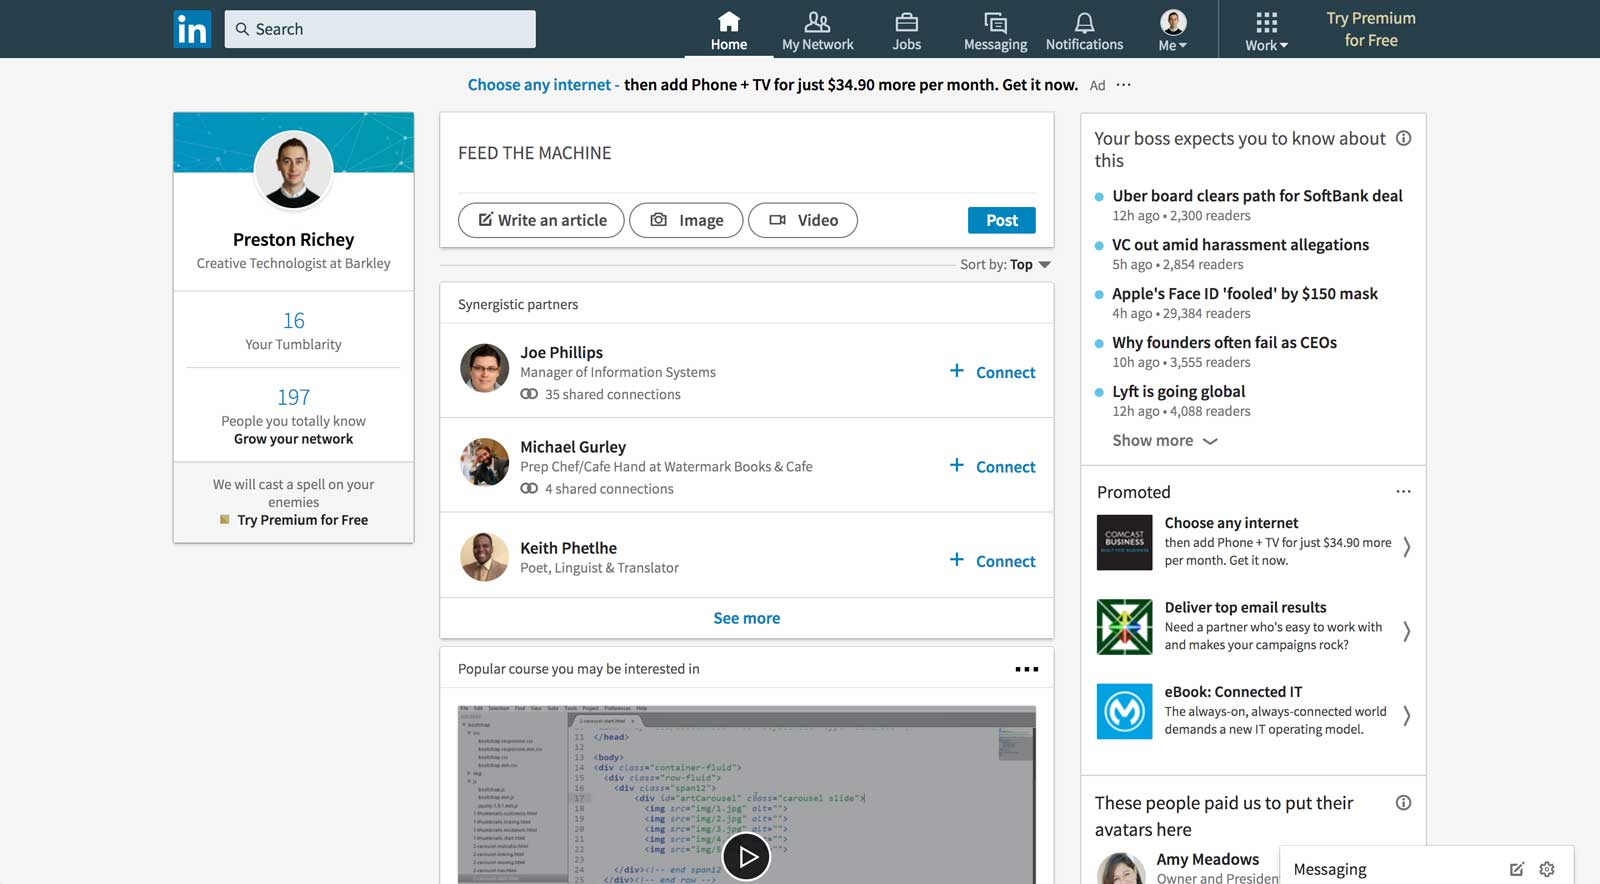
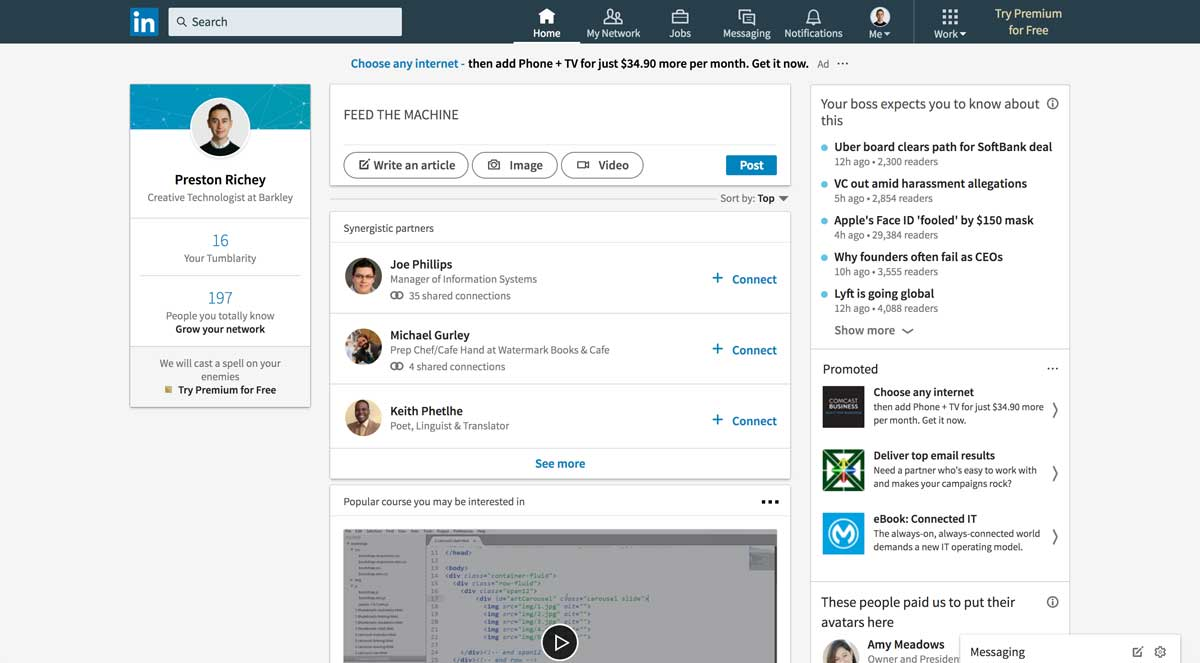
Zoom swap theylinkedin

diff --git a/src/pages/projects/personal/they-linkedin/index.md b/src/pages/projects/personal/they-linkedin/index.md
@@ -6,7 +6,6 @@ link: "https://chrome.google.com/webstore/detail/they-linkedin/cmjockpmecfhkaead
 repo: "https://github.com/prichey/they-linkedin"
 order: 9
 publish: true
-zoom: true
 lang: "Node.js"
 ---
 
@@ -17,7 +16,11 @@ Someone saner than I would, given these opinions about a free and totally option
 <a href="https://chrome.google.com/webstore/detail/they-linkedin/cmjockpmecfhkaeadcgneakffkioombe" target="_blank">They LinkedIn</a>, inspired by John Carpenter's <a href="https://www.youtube.com/watch?v=JI8AMRbqY6w&t=68s" target="_blank">They Live</a> and an episode of the podcast <a href="https://trackchanges.postlight.com/paul-and-rich-try-to-talk-about-something-else-but-end-up-complaining-about-linkedin-again-c20526cfdb74" target="_blank">Track Changes</a>, lets you see past the jargon. It works similar to <a href="https://github.com/panicsteve/cloud-to-butt" target="_blank">cloud-to-butt</a> but it only runs on linkedin.com. It replaces phrases like "People you may know" with "Synergistic partners", and "What people are talking about now" with "Your boss expects you to know about this". Etc.
 
 <div class="blog-inset">
-  <img src="screenshot.jpg" alt="Plugin Screenshot" title="Plugin Screenshot" data-action="zoom"/>
+  <hidden>
+    <img src='screenshot.jpg' />
+    <img src='screenshot-zoom.jpg' />
+  </hidden>
+  <zoom-image src='screenshot.jpg' zoomSrc='screenshot-zoom.jpg' alt='Plugin Screenshot'></zoom-image>
 </div>
 
 If you found any of this interesting, send me a note. I'd love to add you to my professional network. And, if you would, please endorse me for 'growth hacking' and 'thought leadership'. Thanks in advance!
